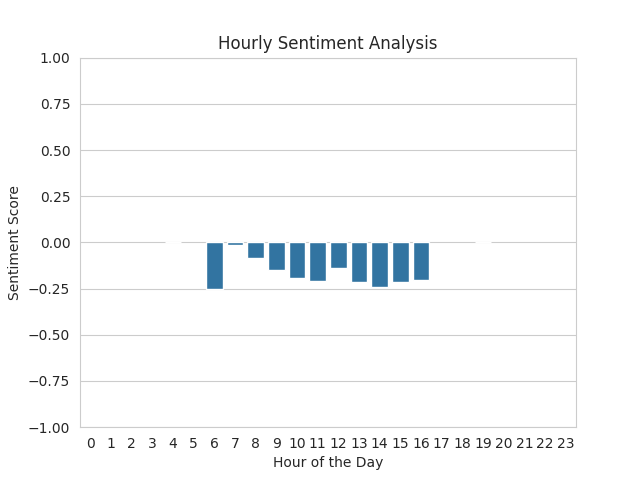
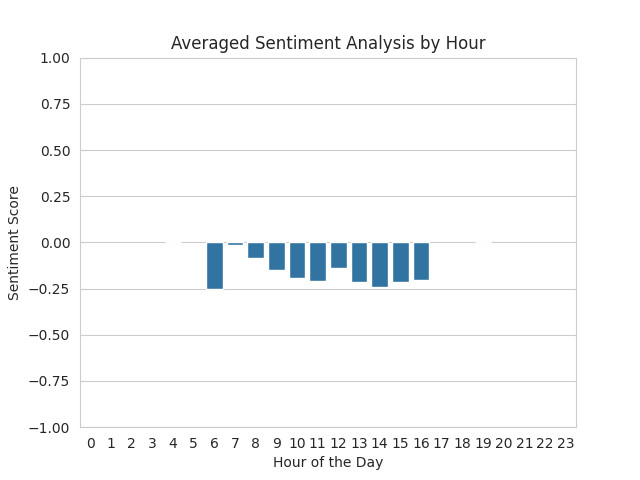
update

Changed region(s): [[0.25, 0.0625, 0.75, 0.125]]

diff --git a/07_Project/analysis.py b/07_Project/analysis.py
@@ -99,7 +99,7 @@ sns.barplot(x='hour', y='sentiment_score', data=hourly_avg_sentiment)
 plt.xlabel("Hour of the Day")
 plt.ylabel("Sentiment Score")
 plt.ylim(-1,1)
-plt.title("Hourly Sentiment Analysis")
+plt.title("Averaged Sentiment Analysis by Hour")
 
 plt.savefig("hourly_sentiment_analysis.png")
 
